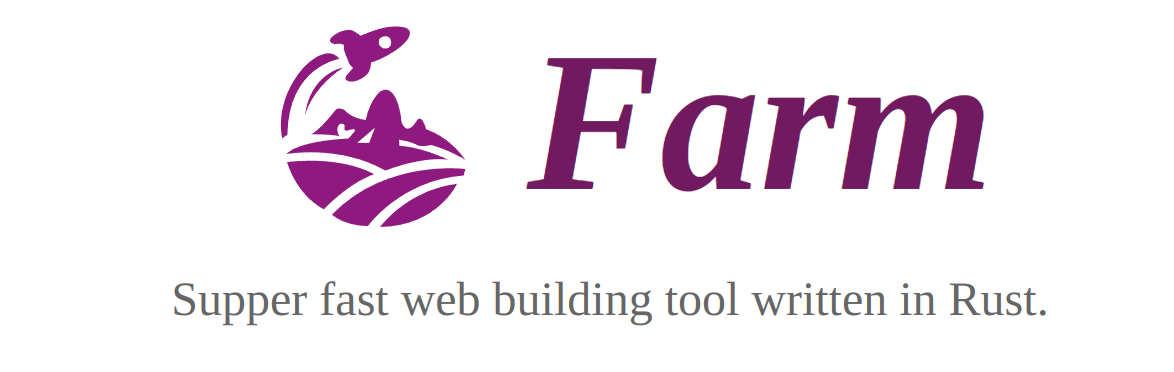
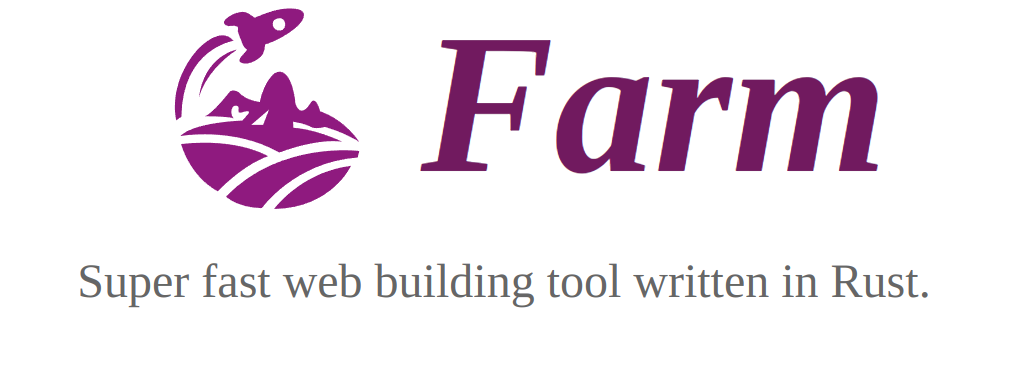
feat: optimize readme (#74)
* feat: optimize readme

* fix: spell check

Changed region(s): [[0.1559, 0.0297, 0.8733, 0.6243], [0.0624, 0.7135, 0.9045, 0.8919]]

diff --git a/examples/react/src/comps/description/index.tsx b/examples/react/src/comps/description/index.tsx
@@ -8,7 +8,7 @@ const Clock = React.lazy(() => import('../clock'));
 export function Description() {
   return (
     <div className="description">
-      <p>Supper fast web building tool written in Rust.</p>
+      <p>Super fast web building tool written in Rust.</p>
 
       <div
         style={{ display: 'flex', justifyContent: 'center', marginTop: '40px' }}

diff --git a/packages/cli/templates/react/src/comps/description/index.tsx b/packages/cli/templates/react/src/comps/description/index.tsx
@@ -8,7 +8,7 @@ import { Button } from '../button';
 export function Description() {
   return (
     <div className="description">
-      <p>Supper fast web building tool written in Rust.</p>
+      <p>Super fast web building tool written in Rust.</p>
 
       <div
         style={{ display: 'flex', justifyContent: 'center', marginTop: '40px' }}

diff --git a/packages/core/binding/index.d.ts b/packages/core/binding/index.d.ts
@@ -85,6 +85,7 @@ export interface Config {
       filename?: string;
       path?: string;
       publicPath?: string;
+      assetsFilename?: string;
     };
     resolve?: {
       extensions?: string[];

diff --git a/examples/react/src/comps/features/index.tsx b/examples/react/src/comps/features/index.tsx
@@ -8,7 +8,7 @@ import plug from '../../../assets/plug.svg';
 
 const FeatureList = [
   {
-    title: 'Supper Fast',
+    title: 'Super Fast',
     Img: rocket,
     description: (
       <>

diff --git a/packages/cli/templates/react/src/comps/features/index.tsx b/packages/cli/templates/react/src/comps/features/index.tsx
@@ -8,7 +8,7 @@ import plug from '../../../assets/plug.svg';
 
 const FeatureList = [
   {
-    title: 'Supper Fast',
+    title: 'Super Fast',
     Img: rocket,
     description: (
       <>

diff --git a/README.md b/README.md
@@ -9,14 +9,16 @@
 </p>
 <br/>
 
-Farm is a supper fast, light-weight web building tool written in Rust. Farm is much faster than existing tools, for a React project, the performance compare as below:
+Farm is a Super fast, light-weight web building tool written in Rust. Farm is much faster than existing tools, benchmark(Using Turbo pack's benchmark, 1000 React components) as below:
+| | **Startup** | **HMR (Root)** | **HMR (Leaf)** |
+| ------------------- | ------- | ----- | --- |
+| Webpack | 7694ms | 334ms | 267ms |
+| Vite | 4625ms | 32ms | 27ms |
+| Turbopack | 2444ms | 9ms | 11ms |
+| Rspack | 406ms | 311ms | 301ms |
+| Farm | 395ms ✅ | 7ms ✅ | 12ms ✅ |
 
-|                     | Webpack | Vite  | Farm  | Compare                                       |
-| ------------------- | ------- | ----- | ----- | --------------------------------------------- |
-| **cold start**      | 853ms   | 276ms | 67ms  | Farm is faster: **12x webpack**，**4x vite**  |
-| **HMR**             | 43ms    | 23ms  | 2ms   | Farm is faster: **20x webpack**，**10x vite** |
-| **onload**          | 83ms    | 310ms | 57ms  | Farm is faster: **5x vite**                   |
-| **accessible time** | 936ms   | 586ms | 124ms | Farm is faster: **8x webpack**，**5x vite**   |
+![xx](./assets/statistics.png)
 
 > Test Repo：https://github.com/farm-fe/performance-compare
 >

diff --git a/packages/core/README.md b/packages/core/README.md
@@ -1,11 +1,13 @@
 # Farm Core
-Farm is a supper fast web build engine written in Rust. Farm can start a project in milliseconds and perform a HMR within 5ms, much more faster than similar tools like webpack and vite.
+
+Farm is a Super fast web build engine written in Rust. Farm can start a project in milliseconds and perform a HMR within 5ms, much more faster than similar tools like webpack and vite.
 
 See https://github.com/farm-fe/farm for details
 
-
 ## Getting Started
+
 Install Farm Cli:
+
 ```sh
 npm install -g @farmfe/cli
 ```
